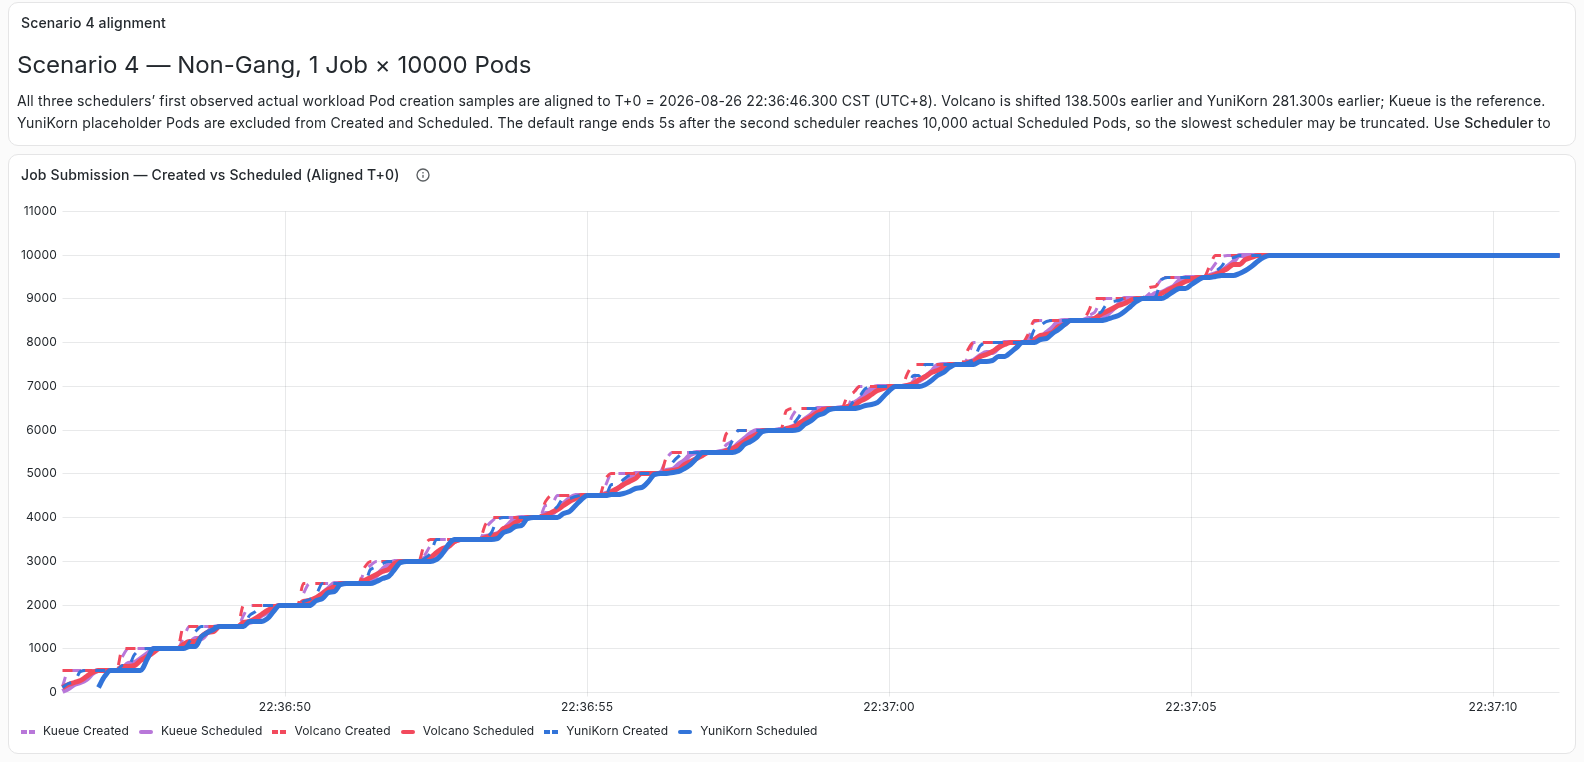
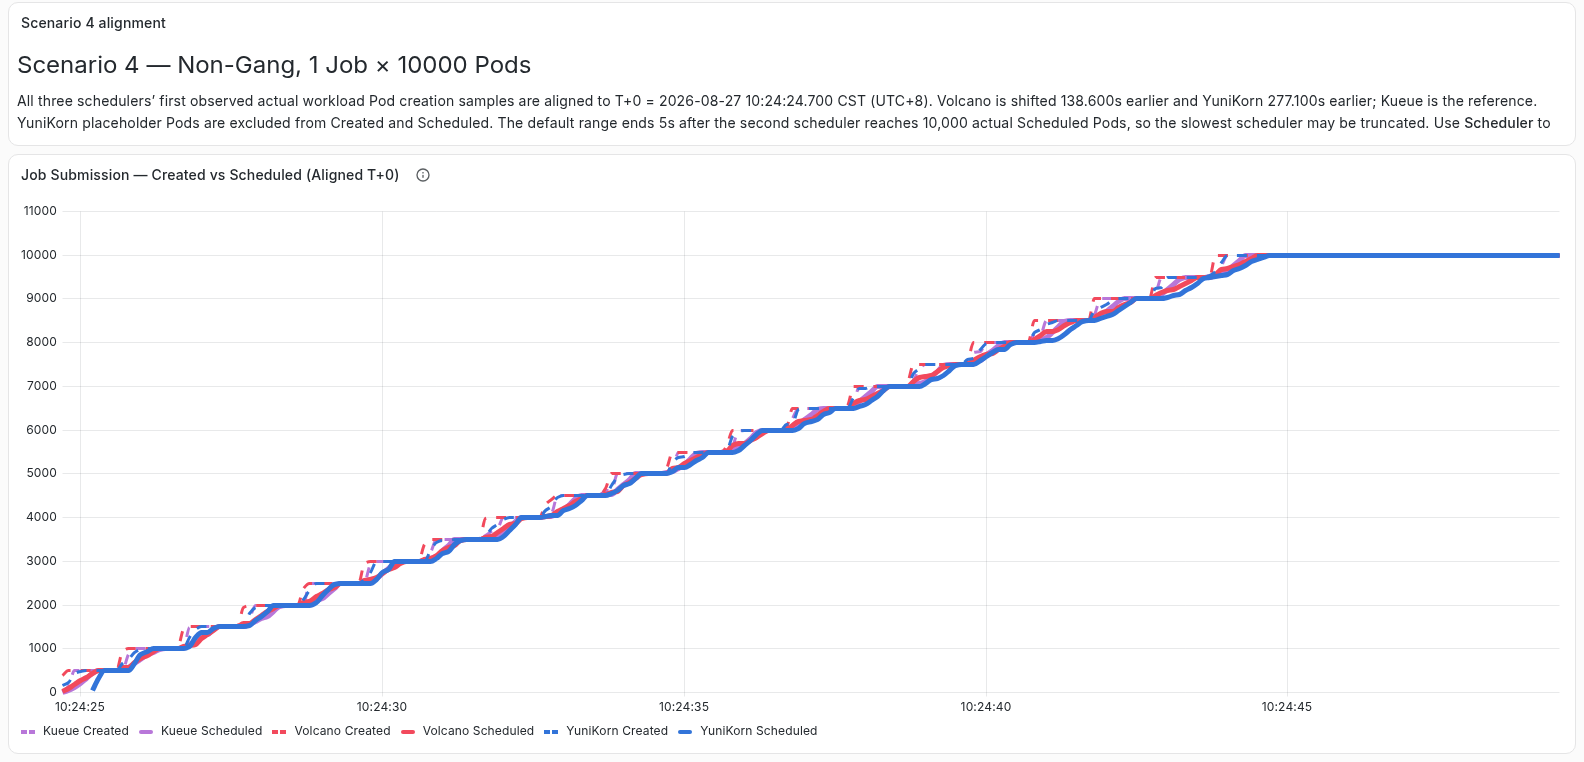
results: scenario test 1-4 082709

diff --git a/scenario_test_report_082709.md b/scenario_test_report_082709.md
@@ -1,0 +1,32 @@
+# 场景测试报告（通过）
+
+## 1. 执行概要
+
+- 测试 Commit：`c581048d338f6ff1da999115d7b4a59de78e16ee`
+- 请求顺序：场景 1、2、3、4
+- 执行命令：依次执行 `make scenario-1`、`make scenario-2`、`make scenario-3`、`make scenario-4`；每个命令完成后执行 `make down`
+- tmux 会话：`cst-scenario-20260827_095830`
+- CST 总时间：`2026-08-27 09:58:30` 至 `2026-08-27 10:31:49`
+- 总耗时：`33m19.598s`
+- 场景退出码：1（make 0，down 0）；2（make 0，down 0）；3（make 0，down 0）；4（make 0，down 0）
+- TestBatchJob：`12/12` Case 通过
+- 更新结果：场景 1–4 均更新且目录完整
+- 总体状态：通过
+
+## 2. 场景时间边界与结果目录
+
+| 场景 | 模式与参数 | CST（UTC+8）时间边界 | 耗时 | 指标时间窗（毫秒） | 结果目录 | 结果 |
+|---|---|---|---|---|---|---|
+| 1 | agent；队列 1；每队列 Job 10000；每 Job Pod 1 | 2026-08-27 09:58:30–10:08:48 | 10m18.016s | 1787795910715–1787796441064 | `results/scenario-1` | 通过 |
+| 2 | agent；队列 1；每队列 Job 500；每 Job Pod 20 | 2026-08-27 10:08:48–10:16:22 | 7m33.836s | 1787796528747–1787796920266 | `results/scenario-2` | 通过 |
+| 3 | agent；队列 1；每队列 Job 20；每 Job Pod 500 | 2026-08-27 10:16:22–10:24:04 | 7m41.828s | 1787796982591–1787797381567 | `results/scenario-3` | 通过 |
+| 4 | agent；队列 1；每队列 Job 1；每 Job Pod 10000 | 2026-08-27 10:24:04–10:31:49 | 7m45.331s | 1787797444440–1787797845959 | `results/scenario-4` | 通过 |
+
+## 3. 问题说明
+
+未发现影响结论的问题。四场 `make scenario-N` 与后续 `make down` 均成功，结果目录与指标窗口完整；最终 `verify-base.sh 1000`、`verify-schedulers.sh` 和 `verify-monitoring.sh` 均通过。未进行源代码修复或自动重跑。
+
+## 4. 最终结论
+
+通过。场景 1–4 均执行成功，12/12 个 TestBatchJob Case 通过，4 个场景结果均更新；每次 `make down` 均成功，调度器组件与 Audit Exporter 已恢复到固定一副本空闲基线。
+
